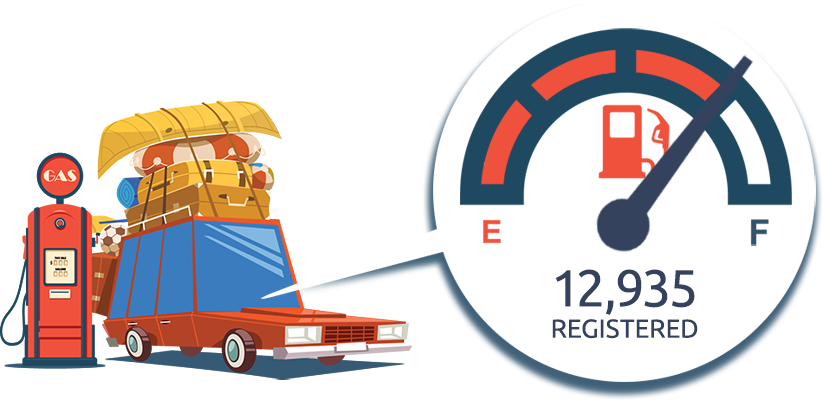
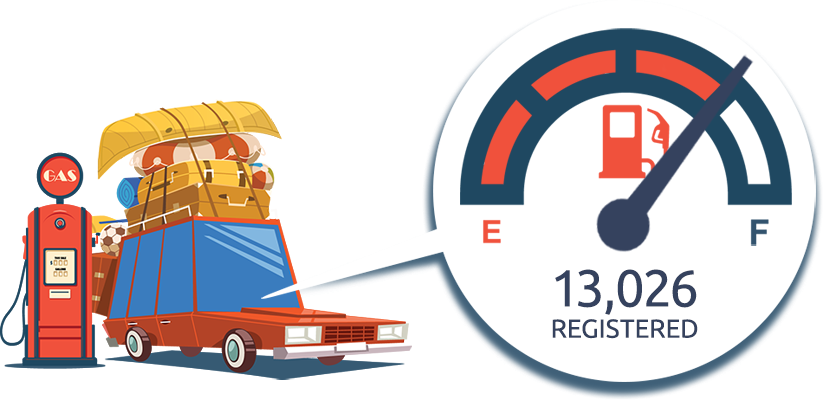
number update

Changed region(s): [[0.6683, 0.66, 0.8505, 0.78]]

diff --git a/summer-reading/registration/index.html b/summer-reading/registration/index.html
@@ -442,7 +442,7 @@ height="0" width="0" style="display:none;visibility:hidden"></iframe>
         <div class="box-one">
           <h4 class="black roboto no-margin-top">Help us meet our community goal of 16,775 people signed up!</h4>
           <div>If we meet our goal, the Douglas County Libraries Foundation will donate $500 to Nature’s Educators, a top-rated nonprofit educational wildlife organization in Douglas County. </div>
-          <div class="margin-10"><span class="odometer">1</span><span class="odometer">2</span><span class="font-weight-500 black">,</span><span class="odometer">9</span><span class="odometer">3</span><span class="odometer">5</span></div>
+          <div class="margin-10"><span class="odometer">1</span><span class="odometer">3</span><span class="font-weight-500 black">,</span><span class="odometer">0</span><span class="odometer">2</span><span class="odometer">6</span></div>
           <div class="small text-uppercase">Registered</div>
         </div>
         <div class="box-two">
